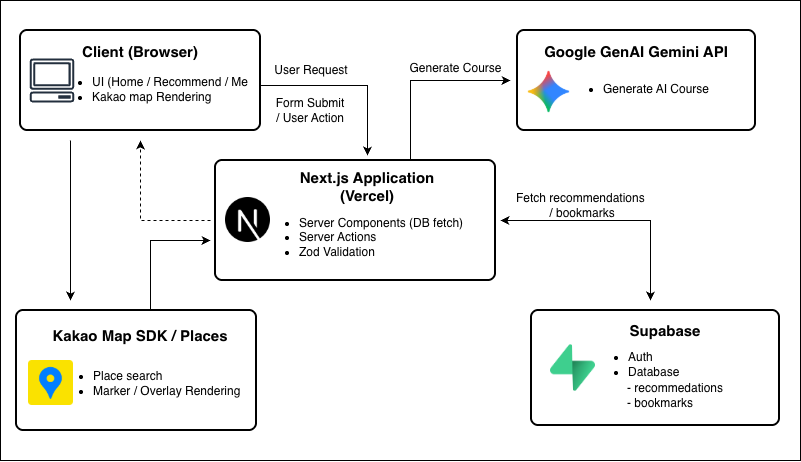
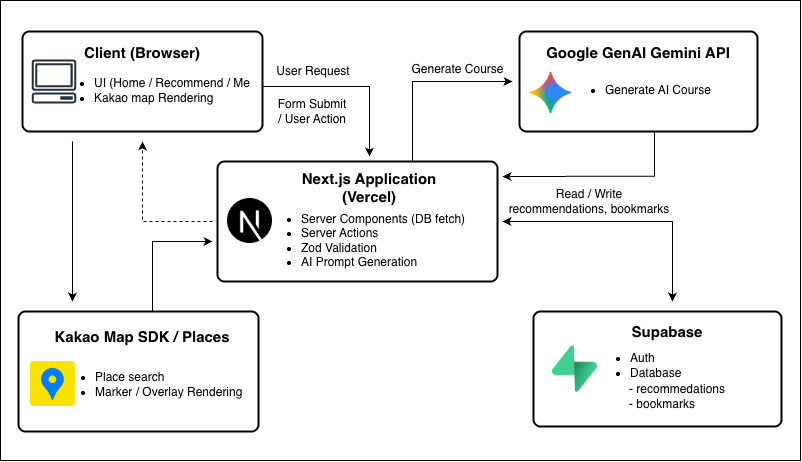
docs: README 프로젝트 설명 및 아키텍처 다이어그램 추가

diff --git a/README.md b/README.md
@@ -1,1 +1,248 @@
 # DateMode
+
+### 👀 오늘 어디 갈까? AI가 오늘의 데이트 코스를 추천해드려요!
+
+🔗 **Demo:** [DateMode](https://datemode.vercel.app/)
+
+> AI 기반 데이트 코스 추천 서비스  
+> Next.js + Supabase + Gemini + Kakao Map
+
+![Home UI](docs/home.png)
+
+## 📌 프로젝트 개요
+
+- DateMode는 사용자의 조건을 기반으로 AI가 맞춤형 데이트 코스를 생성하고 지도 기반으로 실제 방문 가능한 장소를 확인할 수 있도록 도와주는 웹 서비스입니다.
+- 사용자는 지역, 카테고리, 예산, 시간대 등의 조건을 선택해 AI가 생성한 맞춤형 데이트 코스를 추천받을 수 있습니다.
+- 추천된 장소는 지도에서 위치를 확인할 수 있어 실제 방문 가능한 데이트 코스를 직관적으로 탐색할 수 있습니다.
+- 이 프로젝트는 기존 데이트 코스 검색 서비스가 단순한 리스트 형태로 정보를 제공하는 한계를 개선하고자 시작되었습니다. AI를 활용해 사용자 조건에 맞는 코스를 생성하고, 지도와 연동하여 실제 방문 가능한 장소를 직관적으로 확인할 수 있도록 구현했습니다.
+
+  <br />
+
+## 💡 주요 기능
+
+### ✅ AI 데이트 코스 추천
+
+![ai-recommend](docs/recommend.png)
+
+- 사용자가 선택한 지역, 카테고리(맛집/카페/전시/산책), 예산, 시간대의 조건을 기반으로 AI가 단계별 데이트 코스를 생성합니다.
+- 다시 추천 버튼을 통해 같은 조건으로 새로운 데이트 코스를 다시 생성할 수 있는 재추천 기능을 제공합니다.
+
+### ✅ 코스 상세 확인 및 지도 기반 장소 확인
+
+![course](docs/course.png)
+
+- 추천된 장소는 Kakao Map에 마커로 표시되어 데이트 코스의 위치를 직관적으로 확인할 수 있습니다.
+- 각 장소에 대한 상세 설명을 함께 확인할 수 있습니다.
+- 북마크에 저장하거나 다른 사용자에게 코스를 공유할 수 있습니다.
+
+### ✅ 북마크 기능
+
+![bookmarks](docs/my-bookmarks.png)
+
+- 마음에 드는 추천 코스를 저장하여 마이페이지에서 다시 확인할 수 있습니다.
+
+### ✅ 히스토리 기능
+
+![history](docs/my-history.png)
+
+- 사용자의 추천 기록을 확인할 수 있습니다.
+
+### ✅ 로그인 기능
+
+![login](docs/login.png)
+
+- Supabase Auth를 이용해 로그인 기능을 구현했습니다.  
+  • Magic Link 로그인  
+  • Google OAuth 로그인
+
+<br />
+
+## 🔎 역할과 기여도
+
+- 개인 프로젝트로 **기획부터 설계, 개발, 배포까지 프론트엔드 전 과정을 단독으로 주도**하였습니다.
+- AI 추천 데이터 → 지도 위치 검증 → 사용자 UI 표시까지의 데이터 흐름 설계
+- Next.js App Router 기반 프론트엔드 구현
+  - Next.js 16 App Router 기반의 서버/클라이언트 역할을 분리한 구조 설계
+- 사용자 조건 기반 데이트 코스 생성
+  - Google GenAI(Gemini)를 활용하여 AI가 데이트 코스를 생성하도록 프롬프트 설계
+  - AI의 응답을 Supabase DB에 저장
+  - 저장된 데이터는 24시간 이후에 삭제되도록 규칙 추가
+    - DB 용량 관리를 위해 Supabase Edge Functions를 활용
+- Kakao Map API를 활용한 지도 기반 장소 표시 기능 구현
+  - AI의 응답 데이터를 바탕으로 Kakao Places를 활용한 장소 검색
+  - Kakao Places로 검색된 장소만 지도에 표시하여 정보의 신뢰성 확보
+- Supabase Auth를 활용한 로그인 기능 구현
+  - Google OAuth, Magic Link를 이용한 로그인 제공
+  - `getUser`를 활용하여 프로필 박스에 사용자의 정보를 UI에 동적으로 반영
+- 추천 결과 저장 및 북마크 기능 구현
+- Server Actions를 활용한 서버 데이터 처리
+- Zod를 활용해 사용자 입력 데이터와 AI 응답 데이터를 스키마 기반으로 검증하는 구조 설계
+- 예외 상황(장소 미검색/응답 스키마 불일치)에 대한 사용자 안내 및 fallback 처리
+- Vercel을 통한 프로젝트 배포 및 환경 변수 관리
+
+<br />
+
+## 🏗 시스템 아키텍처
+
+![Architecture Diagram](docs/arc.png)
+
+## 📁 프로젝트 구조
+
+> Next.js App Router 기반 구조로 구성했으며  
+> 도메인 단위로 컴포넌트를 분리하여 유지보수성과 확장성을 고려했습니다.
+
+```
+src
+ ┣ actions     # 데이터 입력/삭제를 위한 Server Actions
+ ┣ app         # Next.js App Router 기반 페이지 및 라우트 핸들러
+ ┣ components  # 도메인별로 분리된 재사용 가능 UI 컴포넌트
+ ┣ lib         # Supabase 클라이언트 및 유틸리티 로직
+ ┗ types.ts    # 전역 타입 정의 (TypeScript)
+```
+
+<br />
+
+## 🛠 사용한 기술 스택
+
+| 구분       | 기술                          | 설명                                                                 |
+| ---------- | ----------------------------- | -------------------------------------------------------------------- |
+| Frontend   | Next.js 16, React, TypeScript | App Router 기반 서버/클라이언트 컴포넌트 구성 및 Server Actions 활용 |
+| Styling    | Tailwind CSS                  | 유틸리티 기반 스타일링                                               |
+| Backend    | Supabase                      | 인증(Auth) 및 추천 결과/북마크 데이터 저장                           |
+| Server     | Next.js Server Actions        | AI 요청 및 서버 데이터 처리                                          |
+| AI         | Google GenAI (Gemini)         | 사용자 조건 기반 데이트 코스 생성                                    |
+| Validation | Zod                           | AI 응답 및 사용자 입력 데이터 스키마 검증                            |
+| Map        | Kakao Map API                 | 추천 장소 지도 표시                                                  |
+| Deployment | Vercel                        | 프로젝트 배포 및 환경 변수 관리                                      |
+
+> AI 추천 기능은 Google GenAI(Gemini)를 활용하여 사용자의 조건을 기반으로
+> 데이트 코스를 생성하고, Zod를 통해 응답 데이터를 검증하도록 구현했습니다.
+
+<br />
+
+## 🚀 배포 방법
+
+### 🖥 로컬 실행 방법
+
+**1⃣ 프로젝트 클론 및 의존성 설치**
+
+```bash
+# 프로젝트 클론
+git clone https://github.com/eileen819/datemode.git
+cd datemode
+
+# 의존성 설치
+npm install
+```
+
+**2⃣ 환경 변수 설정**
+
+> `.env.local` 파일을 생성하고 다음 환경 변수를 설정합니다.
+
+```env
+NEXT_PUBLIC_SUPABASE_URL=
+NEXT_PUBLIC_SUPABASE_ANON_KEY=
+GEMINI_API_KEY=
+KAKAO_MAP_API_KEY=
+```
+
+**3⃣ 개발 서버 실행**
+
+```bash
+npm run dev
+```
+
+> 기본적으로 다음 주소에서 실행됩니다.
+
+```
+http://localhost:3000
+```
+
+**4⃣ 프로덕션 빌드**
+
+```bash
+npm run build
+npm start
+```
+
+### 🔹 자동 배포 (권장 방식)
+
+- **Vercel과 GitHub 저장소를 연동**하여 CI/CD 방식으로 배포합니다.
+  - `main` 브랜치에 코드가 push되면 자동으로 배포가 진행됩니다.
+  - Pull Request 생성 시 **Preview 배포**가 생성되어 변경 사항을 확인할 수 있습니다.
+
+- 배포 환경
+  - **Preview Deployment**
+    - Pull Request 또는 브랜치 push 시 임시 URL 생성
+    - 기능 테스트 및 검증 용도
+
+  - **Production Deployment**
+    - `main` 브랜치 merge 시 자동 배포
+    - 실제 서비스 도메인에 반영
+
+### 🔹 수동 배포 (Vercel CLI)
+
+Vercel CLI를 사용하여 로컬에서 직접 배포할 수 있습니다.
+
+```bash
+vercel        # Preview 배포
+vercel --prod # Production 배포
+```
+
+<br />
+
+## 🔄 개선 예정 기능 (업데이트 계획)
+
+### ✔ 검색 기록 삭제 기능
+
+- 사용자가 생성한 추천 코스를 직접 관리할 수 있도록 **검색 기록 삭제 기능** 추가 예정
+- Server Actions를 활용해 Supabase에 저장된 추천 기록을 삭제하도록 구현할 계획
+
+### ✔ 북마크 검색 기능
+
+- 북마크에 저장된 추천 코스를 빠르게 찾을 수 있도록 **검색 기능** 추가 예정
+- 키워드 기반 필터링을 통해 저장된 코스를 효율적으로 탐색할 수 있도록 사용자 경험을 개선할 계획
+
+### ✔ 라이트 모드 / 다크 모드
+
+- 사용자 환경에 맞게 UI를 변경할 수 있도록 **라이트 모드 / 다크 모드 전환 기능** 구현 예정
+- Tailwind CSS의 `dark mode` 기능을 활용해 테마 전환을 구현할 계획
+
+  <br/>
+
+## 📚 기술적 학습 및 인사이트
+
+### 📍 Zod를 활용한 입/출력 데이터 스키마 기반 검증
+
+- AI API의 응답 데이터는 항상 동일한 구조를 보장하지 않기 때문에 예상하지 못한 데이터 구조로 인해 런타임 오류가 발생할 가능성을 확인했습니다.
+- 이를 해결하기 위해 **Zod를 활용해 입력 데이터와 AI 응답 데이터의 스키마를 정의하고 검증하는 구조**를 도입했습니다.
+  - 사용자 입력 조건을 Zod 스키마로 검증
+  - Gemini API 응답 데이터를 Zod로 파싱 및 검증
+  - 스키마에 맞지 않는 데이터는 예외 처리
+- 이를 통해 AI 응답 데이터의 안정성을 확보하고 예상하지 못한 데이터 구조로 인한 런타임 오류를 방지할 수 있었습니다.
+
+---
+
+### 📍 AI 생성 데이터와 실제 지도 데이터 연결 문제 해결 (Kakao Places 활용)
+
+- AI가 생성한 장소 정보는 실제 존재하지 않거나 정확한 위치 정보가 없는 경우를 확인했습니다.
+- 이 문제를 해결하기 위해 **Kakao Places API의 keywordSearch 기능을 활용해 장소를 검증하는 로직**을 구현했습니다.
+  1. AI가 생성한 장소 이름으로 Kakao Places 검색
+  2. 검색 결과가 존재할 경우 해당 장소의 좌표 정보를 사용
+  3. 검색 결과가 없는 경우 보조 키워드(`nameHint`)로 재검색
+  4. 그래도 검색 결과를 찾지 못할 경우에는 위치 미확인으로 사용자에게 안내
+
+- 이 과정에서 AI가 생성한 데이터와 실제 외부 API 데이터를 연결하는 방식에 대해 고민하며
+  AI 기반 서비스에서 데이터 신뢰성을 확보하는 방법을 학습할 수 있었습니다.
+
+---
+
+### 📍 Server Actions를 활용한 서버 중심 데이터 처리 구조
+
+- 추천 코스 생성, 북마크 저장, 기록 관리와 같은 데이터 처리를 위해 Next.js의 **Server Actions 기반 데이터 처리 구조**를 적용했습니다.
+  - AI 추천 요청 처리
+  - Supabase 데이터 저장 및 조회
+  - 북마크 추가 / 삭제 처리
+
+- Server Actions를 활용함으로써 별도의 API Route 없이 서버 로직을 관리할 수 있었고 클라이언트에서 데이터베이스에 직접 접근하지 않는 구조를 설계할 수 있었습니다.
+- 이를 통해 서버 중심 데이터 처리 아키텍처에 대해 학습할 수 있었습니다.
